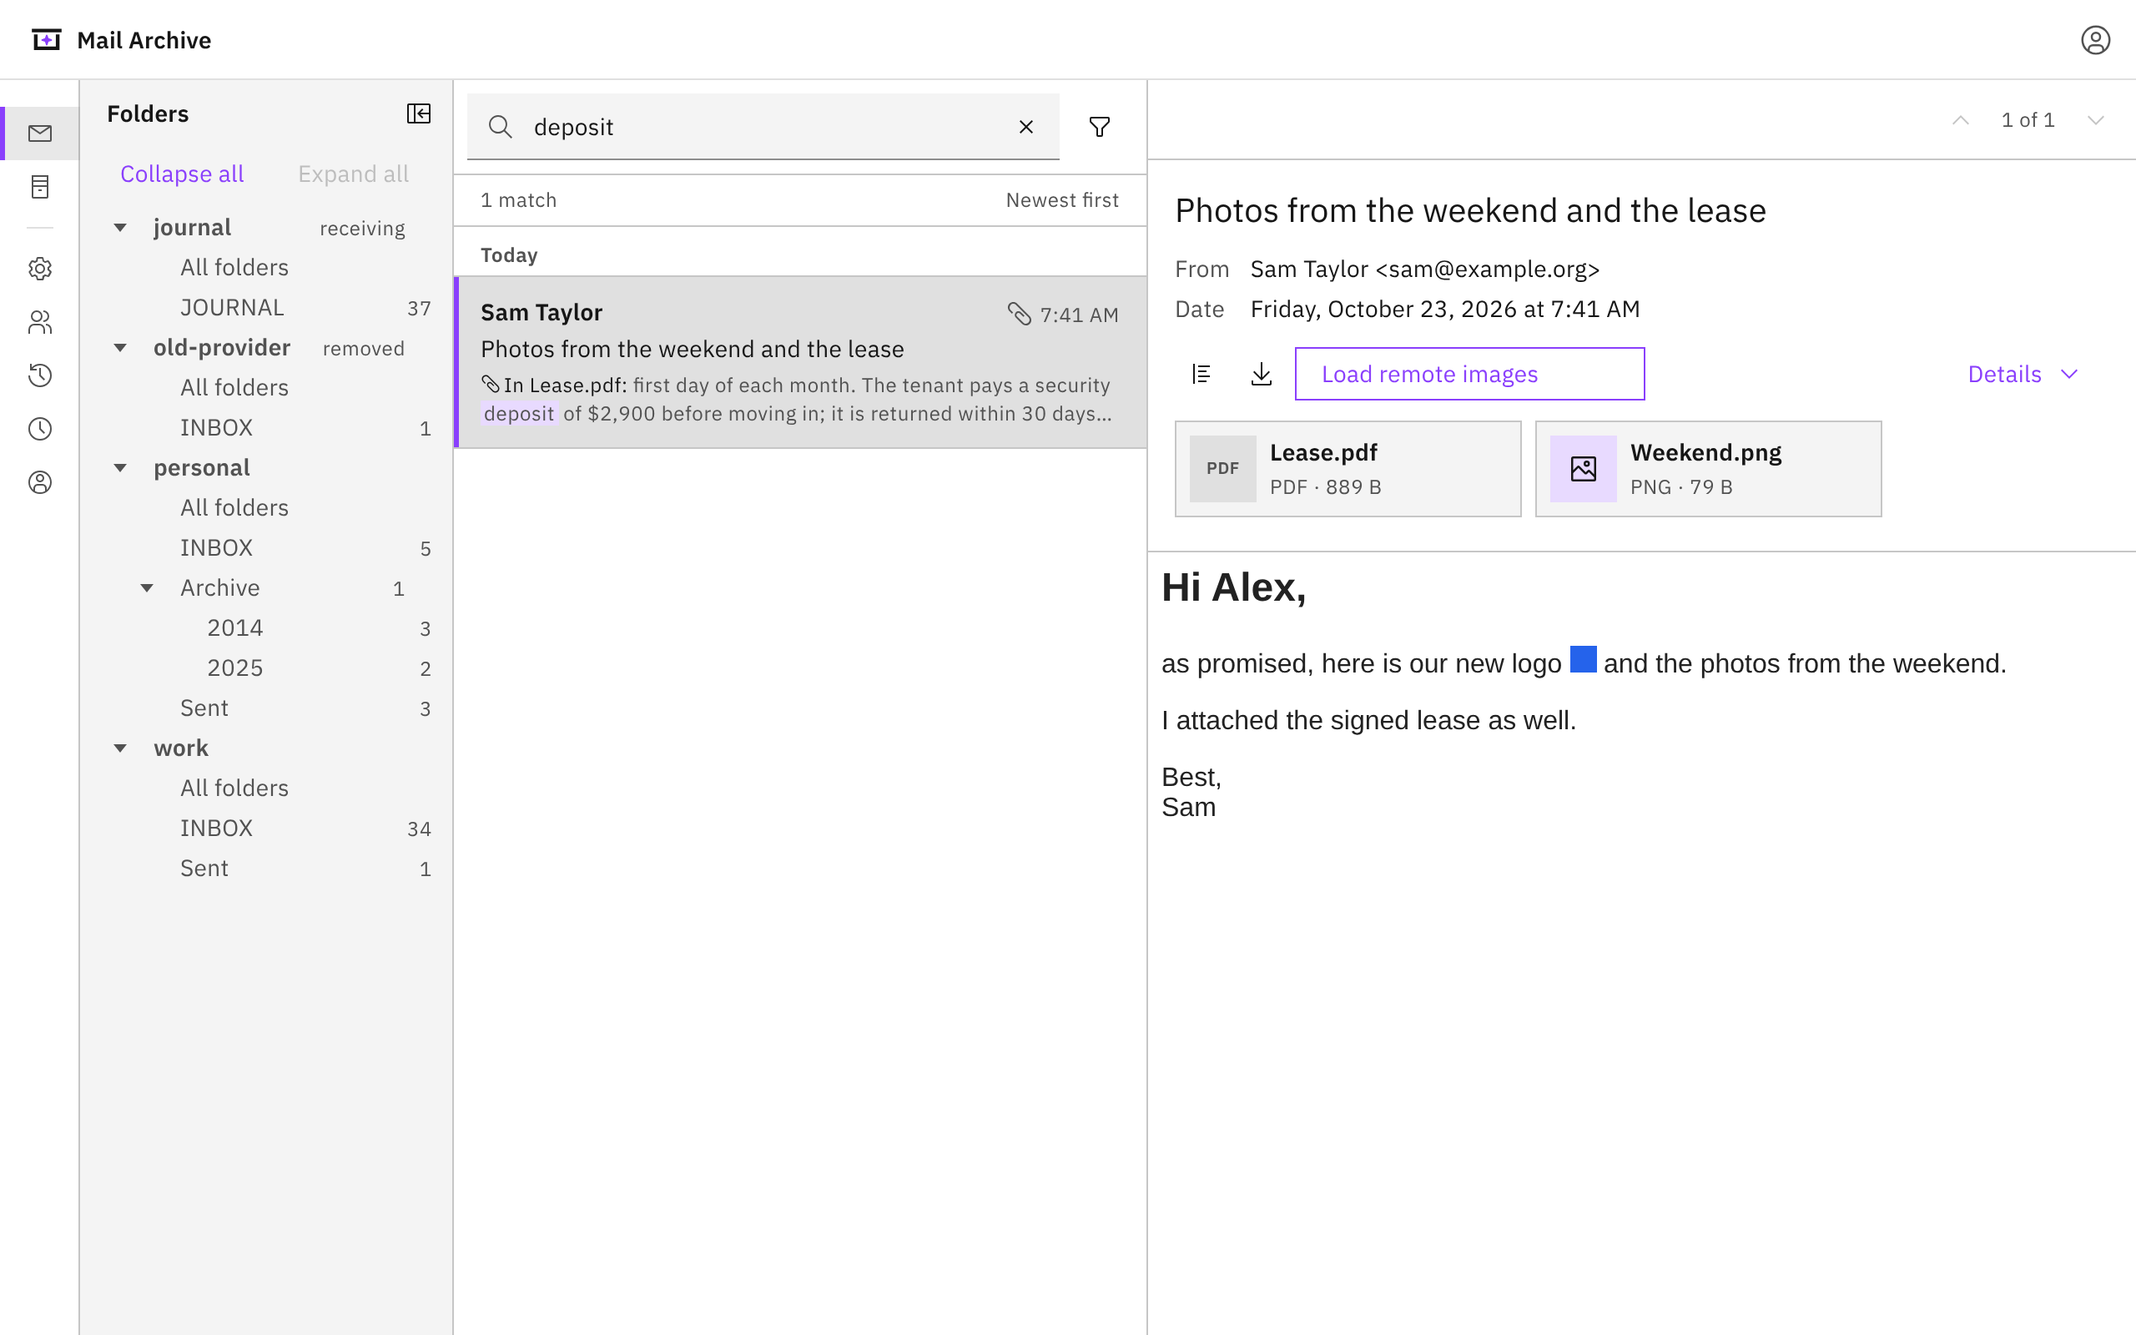
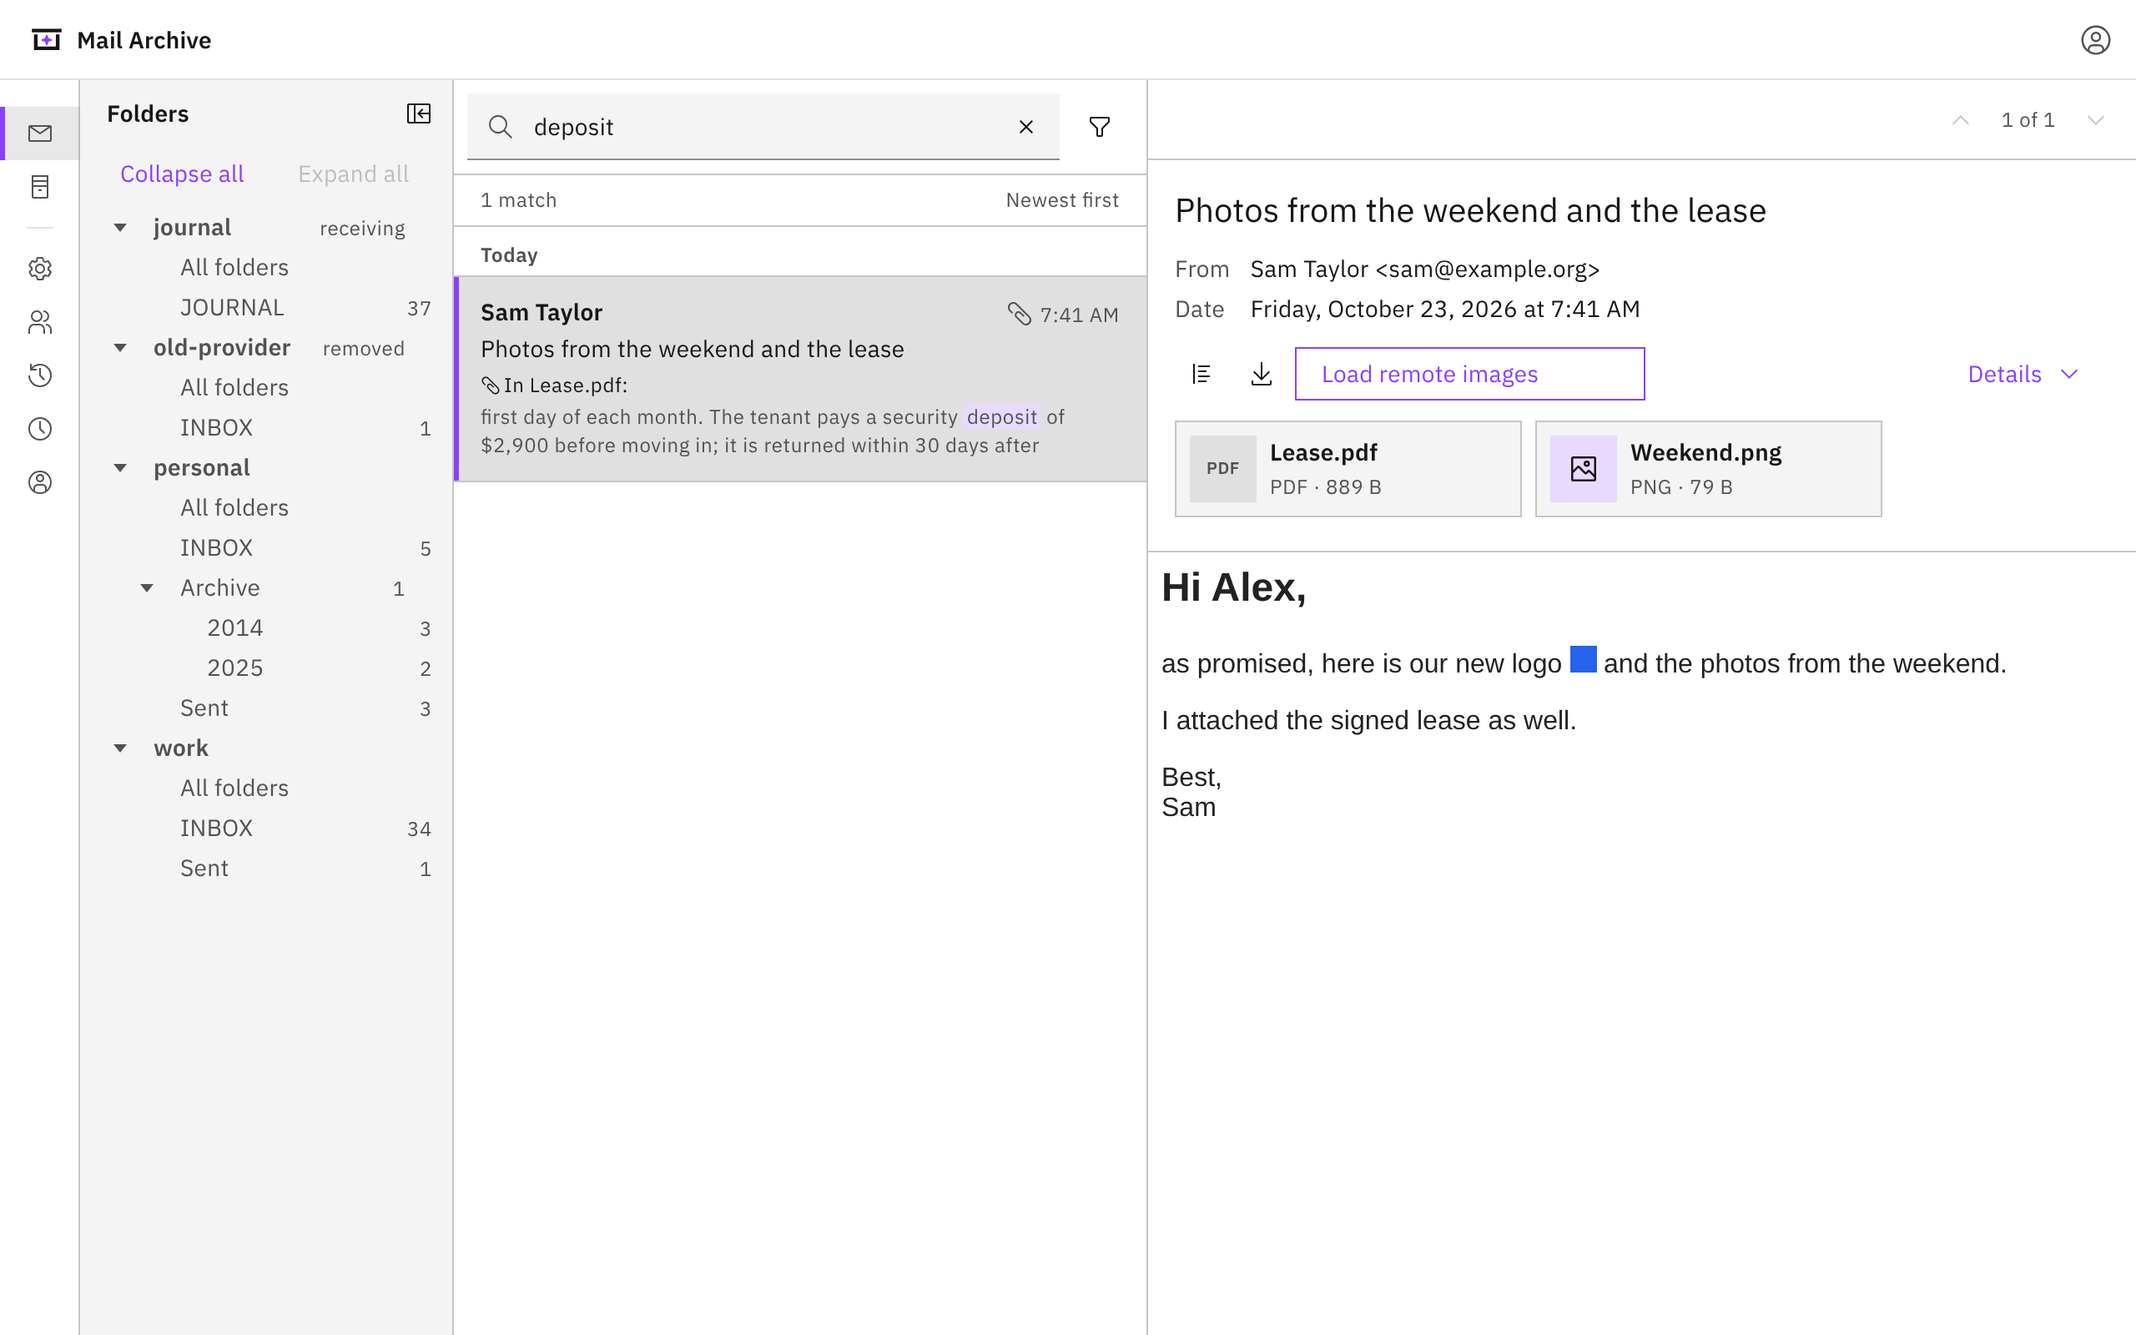
Search results: a long attachment name no longer hides the snippet (#482)
The "In <file>:" line of an attachment match is now a sibling above the
snippet instead of part of its two clamped lines. It takes one line: the
stem is cut with an ellipsis before the extension. Screen readers get the
name in one piece from a visually hidden text; the cut line is hidden
from them, because Chromium reads the flex items as "annexes .pdf :".

Claude-Session: https://claude.ai/code/session_016UE6pPWbSnN1w5ogjWfwrD

Changed region(s): [[0.1875, 0.2812, 0.5312, 0.375]]

diff --git a/web/src/MessageList.test.tsx b/web/src/MessageList.test.tsx
@@ -6,7 +6,7 @@ import { act, cleanup, render, screen } from "@testing-library/react";
 import { afterEach, beforeEach, expect, it, vi } from "vitest";
 import type { MessagePage, MessageSummary } from "./api";
 import { applySettings, t } from "./i18n";
-import { MessageList } from "./MessageList";
+import { MessageList, splitExtension } from "./MessageList";
 import { expectLoaded, expectLoading } from "./test/loading";
 
 const msg = (id: string): MessageSummary => ({
@@ -153,8 +153,10 @@ it("tags the rows of an expanded conversation that are only in the archive", asy
 
 /** The snippet line of a subject's row. */
 const snippetOf = (subject: string) => screen.getByText(subject).closest("button")!.querySelector(".mail-row__snippet");
+/** The "In <attachment>:" line of a subject's row. */
+const matchOf = (subject: string) => screen.getByText(subject).closest("button")!.querySelector(".mail-row__match");
 
-it("names the attachment a search matched by before its snippet, in English and German (#390, part 4)", async () => {
+it("names the attachment a search matched by on its own line above its snippet, in English and German (#390, part 4; #479)", async () => {
   const rows: MessageSummary[] = [
     { ...msg("a"), hasAttachment: true, snippet: "\uE000Rechnungsbetrag\uE001 1.234,56 €", matchedAttachment: { part: 3, filename: "Rechnung-2026-10.pdf" } },
     { ...msg("b"), hasAttachment: true, snippet: "Siehe \uE000Rechnungsbetrag\uE001 im Text" },
@@ -169,19 +171,48 @@ it("names the attachment a search matched by before its snippet, in English and 
       render(<MessageList filter={{ q: "Rechnungsbetrag" }} selected="" open={() => {}} />);
       await answer({ messages: rows, nextCursor: null });
       expect(await screen.findByText("Subject a")).toBeTruthy();
+      // The name is a sibling before the snippet, not inside its two clamped lines (#479).
+      const match = matchOf("Subject a")!;
+      // Screen readers get the text in one piece; the cut line is hidden from them.
+      expect(match.querySelector(".cds--visually-hidden")?.textContent).toBe("In Rechnung-2026-10.pdf:");
+      const line = match.querySelector(".mail-row__match-line")!;
+      expect(line.getAttribute("aria-hidden")).toBe("true");
+      expect(line.textContent).toBe("In Rechnung-2026-10.pdf:");
+      expect(match.querySelector(".mail-row__match-name")?.textContent).toBe("Rechnung-2026-10");
+      expect(match.querySelector(".mail-row__match-ext")?.textContent).toBe(".pdf");
       const a = snippetOf("Subject a")!;
-      expect(a.textContent).toBe("In Rechnung-2026-10.pdf: Rechnungsbetrag 1.234,56 €");
+      expect(a.textContent).toBe("Rechnungsbetrag 1.234,56 €");
+      expect(a.querySelector(".mail-row__match")).toBeNull();
       expect(a.querySelector("mark")?.textContent).toBe("Rechnungsbetrag");
-      // The paperclip is decoration; the text names the file.
-      expect(a.querySelector(".mail-row__match svg")?.getAttribute("aria-hidden")).toBe("true");
+      // The row's name reads the full file name and keeps it apart from the snippet.
+      expect(screen.getByRole("button", { name: /In Rechnung-2026-10\.pdf: Rechnungsbetrag/ })).toBeTruthy();
+      // The paperclip is decoration, in the hidden line; the text names the file.
+      expect(line.querySelector("svg")).toBeTruthy();
       // A body match: the snippet alone.
       expect(snippetOf("Subject b")!.textContent).toBe("Siehe Rechnungsbetrag im Text");
-      expect(snippetOf("Subject b")!.querySelector(".mail-row__match")).toBeNull();
-      // Without a file name: the part, in the user's language.
-      expect(snippetOf("Subject c")!.textContent).toBe(`${unnamed} Rechnungsbetrag`);
+      expect(matchOf("Subject b")).toBeNull();
+      // Without a file name: the part, in the user's language, and no extension.
+      expect(matchOf("Subject c")!.querySelector(".cds--visually-hidden")?.textContent).toBe(unnamed);
+      expect(matchOf("Subject c")!.querySelector(".mail-row__match-line")?.textContent).toBe(unnamed);
+      expect(matchOf("Subject c")!.querySelector(".mail-row__match-ext")).toBeNull();
+      expect(snippetOf("Subject c")!.textContent).toBe("Rechnungsbetrag");
     } finally {
       cleanup();
       applySettings({ language: "en", locale: "en" });
     }
   }
+});
+
+it.each([
+  ["Rechnung-2026-10.pdf", "Rechnung-2026-10", ".pdf"],
+  ["a.tar.gz", "a.tar", ".gz"],
+  [".bashrc", ".bashrc", ""],
+  ["name.", "name.", ""],
+  ["README", "README", ""],
+  ["Report v1.2 final", "Report v1.2 final", ""],
+  ["photo.JPEG", "photo", ".JPEG"],
+  ["archive.toolongextension", "archive.toolongextension", ""],
+  ["Teil 4", "Teil 4", ""],
+])("splitExtension(%j) is [%j, %j] (#479)", (name, stem, ext) => {
+  expect(splitExtension(name)).toEqual([stem, ext]);
 });

diff --git a/web/e2e/phone.spec.ts b/web/e2e/phone.spec.ts
@@ -1,5 +1,6 @@
 import { devices, type Page } from "@playwright/test";
 import { expect, test } from "./fixtures";
+import { sideScroll, sideScrolls } from "./layout";
 import { mailReady, openLong } from "./mailFrame";
 
 // A phone with a touch screen: one column at a time; the side navigation
@@ -241,4 +242,70 @@ test("phone: a swipe on the Folders scrim does not scroll the message behind it;
   // The same swipe without the scrim scrolls the page: the check above is not vacuous.
   await swipeUp(page, x, y);
   expect(await scrollY(page)).toBeGreaterThan(before);
+});
+
+test("phone: a long attachment name takes one line and keeps the matched term visible (#479)", async ({ page }) => {
+  // The iPhone width of the finding.
+  await page.setViewportSize({ width: 393, height: 852 });
+  // The demo's answer, with a long name for the matching attachment (Lease.pdf).
+  const long = "Residential Lease Agreement for Unit 4B signed by both parties final version 2026 including all annexes.pdf";
+  let replaced = 0;
+  await page.route(
+    (url) => url.pathname === "/api/messages" && url.searchParams.get("q") === "deposit",
+    async (route) => {
+      const response = await route.fetch();
+      const body = (await response.json()) as { messages: { matchedAttachment?: { filename: string } }[] };
+      for (const m of body.messages)
+        if (m.matchedAttachment) {
+          m.matchedAttachment.filename = long;
+          replaced++;
+        }
+      await route.fulfill({ response, json: body });
+    },
+  );
+  await page.goto("/?q=deposit");
+  const list = page.getByRole("list", { name: "Messages" });
+  const hit = list.getByRole("button", { name: /Photos from the weekend and the lease/ });
+  const match = hit.locator(".mail-row__match-line");
+  const name = match.locator(".mail-row__match-name");
+  const ext = match.locator(".mail-row__match-ext");
+  const snippet = hit.locator(".mail-row__snippet");
+  const mark = snippet.locator("mark");
+  await expect(match).toHaveText(`In ${long}:`);
+  expect(replaced).toBe(1);
+  await expect(ext).toHaveText(".pdf");
+  await expect(mark).toHaveText(["deposit"]);
+
+  // One line: the box is as high as one line of its text.
+  await expect
+    .poll(() => match.evaluate((e) => Math.abs(e.getBoundingClientRect().height - parseFloat(getComputedStyle(e).lineHeight))))
+    .toBeLessThanOrEqual(1);
+  // The stem is cut with "…"; the extension stays inside the line.
+  await expect.poll(() => name.evaluate((e) => e.scrollWidth > e.clientWidth)).toBe(true);
+  const box = async (l: typeof match) => (await l.boundingBox())!;
+  const [m, x] = [await box(match), await box(ext)];
+  expect(x.x).toBeGreaterThanOrEqual(m.x);
+  expect(x.x + x.width).toBeLessThanOrEqual(m.x + m.width + 0.5);
+  expect(x.y).toBeGreaterThanOrEqual(m.y - 0.5);
+  expect(x.y + x.height).toBeLessThanOrEqual(m.y + m.height + 0.5);
+
+  // The marked term is inside the snippet's two clamped lines, not cut off below.
+  await expect(mark).toBeInViewport();
+  const [s, k] = [await box(snippet), await box(mark)];
+  expect(k.y).toBeGreaterThanOrEqual(s.y - 0.5);
+  expect(k.y + k.height).toBeLessThanOrEqual(s.y + s.height + 0.5);
+  expect(k.x + k.width).toBeLessThanOrEqual(s.x + s.width + 0.5);
+
+  // Nothing scrolls sideways.
+  expect(await sideScrolls(page)).toBe(false);
+  const scroll = await sideScroll(list);
+  expect(scroll.scrollWidth).toBeLessThanOrEqual(scroll.clientWidth);
+
+  // Chromium's own accessible name of the row reads the full name unbroken
+  // (the stem and the extension are flex items) and apart from the snippet.
+  const cdp = await page.context().newCDPSession(page);
+  const { nodes } = (await cdp.send("Accessibility.getFullAXTree")) as { nodes: { role?: { value: string }; name?: { value: string } }[] };
+  const rowName = nodes.find((n) => n.role?.value === "button" && n.name?.value.includes("Photos from the weekend"))?.name?.value ?? "";
+  expect(rowName).toContain(`In ${long}: `);
+  await cdp.detach();
 });

diff --git a/web/src/MessageList.tsx b/web/src/MessageList.tsx
@@ -205,6 +205,40 @@ interface RowProps {
   count?: number;
 }
 
+/**
+ * A file name's stem and extension: the extension is the last "." with 1 to 10
+ * letters or digits after it and a non-empty stem before it, else "" (#479).
+ */
+export function splitExtension(name: string): [string, string] {
+  const i = name.lastIndexOf(".");
+  const ext = name.slice(i);
+  return i > 0 && /^\.[A-Za-z0-9]{1,10}$/.test(ext) ? [name.slice(0, i), ext] : [name, ""];
+}
+
+/**
+ * "In <name>:" on one line: the stem is cut with "…" where the line ends,
+ * the extension and the colon stay (#479). The stem and the extension are
+ * flex items, which Chromium reads with spaces between them ("annexes .pdf
+ * :"), so screen readers get the text in one piece and the line is hidden
+ * from them.
+ */
+function MatchedAttachment({ name }: { name: string }) {
+  const [stem, ext] = splitExtension(name);
+  const [before, after] = t.inAttachment;
+  return (
+    <span className="mail-row__match">
+      <span className="cds--visually-hidden">{`${before}${name}${after}`}</span>
+      <span className="mail-row__match-line" aria-hidden="true">
+        <Attachment size={12} />
+        {before}
+        <span className="mail-row__match-name">{stem}</span>
+        {ext && <span className="mail-row__match-ext">{ext}</span>}
+        {after}
+      </span>
+    </span>
+  );
+}
+
 function Row({ m, selected, open, nested, count }: RowProps) {
   const on = m.id === selected;
   // Paging in the reading pane moves the selection; keep it in view.
@@ -236,15 +270,16 @@ function Row({ m, selected, open, nested, count }: RowProps) {
         </span>
       </span>
       <span className="mail-row__subject">{m.subject || t.noSubject}</span>
+      {/* Only an attachment matched the search: its name on a line of its own above the
+          snippet from its text, so a long name cannot use up the snippet's two lines (#479).
+          The space keeps the name and the snippet apart in the row's accessible name. */}
+      {m.snippet && !nested && m.matchedAttachment && (
+        <>
+          <MatchedAttachment name={m.matchedAttachment.filename || t.part(m.matchedAttachment.part)} />{" "}
+        </>
+      )}
       {m.snippet && !nested && (
         <span className="mail-row__snippet">
-          {/* Only an attachment matched the search: its name before the snippet from its text. */}
-          {m.matchedAttachment && (
-            <span className="mail-row__match">
-              <Attachment size={12} aria-hidden />
-              {t.inAttachment(m.matchedAttachment.filename || t.part(m.matchedAttachment.part))}{" "}
-            </span>
-          )}
           <Highlight text={m.snippet} />
         </span>
       )}

diff --git a/web/src/i18n.ts b/web/src/i18n.ts
@@ -20,7 +20,8 @@ const en = {
   earlierNotShown: (n: number) => (n === 1 ? "1 earlier message not shown" : `${n} earlier messages not shown`),
   loadConversationFailed: (err: string) => `Could not load the conversation: ${err}`,
   inConversation: (n: number) => `${n} messages in this conversation`,
-  inAttachment: (name: string) => `In ${name}:`,
+  /** Before and after an attachment's name: "In Lease.pdf:" (#479: the name is its own element). */
+  inAttachment: ["In ", ":"] as [string, string],
   showConversation: (n: number) => (n === 1 ? "Show 1 earlier message" : `Show ${n} earlier messages`),
   conversationCount: (n: number) => `Conversation (${n})`,
   hideConversation: "Hide the messages",
@@ -763,7 +764,7 @@ const de: Messages = {
   earlierNotShown: (n) => (n === 1 ? "1 ältere Nachricht nicht angezeigt" : `${n} ältere Nachrichten nicht angezeigt`),
   loadConversationFailed: (err) => `Konversation konnte nicht geladen werden: ${err}`,
   inConversation: (n) => `${n} Nachrichten in dieser Konversation`,
-  inAttachment: (name) => `In ${name}:`,
+  inAttachment: ["In ", ":"],
   showConversation: (n) => (n === 1 ? "1 ältere Nachricht anzeigen" : `${n} ältere Nachrichten anzeigen`),
   conversationCount: (n) => `Konversation (${n})`,
   hideConversation: "Nachrichten ausblenden",

diff --git a/web/e2e/mail.spec.ts b/web/e2e/mail.spec.ts
@@ -66,11 +66,13 @@ test("a word only in a PDF finds the message, and the row names the attachment (
   // "deposit" is only in the text of Lease.pdf, not in the message itself.
   await page.getByRole("searchbox", { name: "Search mail" }).fill("deposit");
   await expect(page).toHaveURL(/[?&]q=deposit/);
-  // The file name, then the snippet from the PDF with the match marked:
-  // only a search result has it, the full list shows the start of the body.
+  // The file name on its own line (#479), then the snippet from the PDF with
+  // the match marked: only a search result has it, the full list shows the
+  // start of the body.
   const hit = list.getByRole("button", { name: /Photos from the weekend and the lease/ });
+  await expect(hit.locator(".mail-row__match-line")).toHaveText("In Lease.pdf:");
   const snippet = hit.locator(".mail-row__snippet");
-  await expect(snippet).toContainText(/^In Lease\.pdf: [\s\S]*security deposit/);
+  await expect(snippet).toContainText(/security deposit/);
   await expect(snippet.locator("mark")).toHaveText(["deposit"]);
   // Only the one message has the word.
   await expect(list.getByRole("button")).toHaveCount(1);

diff --git a/web/src/layout.css b/web/src/layout.css
@@ -780,14 +780,35 @@ select,
   -webkit-box-orient: vertical;
   -webkit-line-clamp: 2;
 }
-/* The attachment a search matched by, before the snippet from its text. */
+/* The attachment a search matched by, on one line above the snippet from its
+   text (#479): a long name is cut with "…" before its extension, so the
+   snippet keeps its two lines. `pre` keeps the space after "In". */
 .mail-row__match {
+  min-inline-size: 0;
   color: var(--cds-text-primary);
+  font-size: 0.75rem;
+  letter-spacing: 0.32px;
+}
+.mail-row__match-line {
+  display: flex;
+  align-items: center;
+  min-inline-size: 0;
+  white-space: pre;
 }
 .mail-row__match svg {
+  flex: none;
   margin-inline-end: 0.125rem;
   fill: currentColor;
-  vertical-align: -0.0625rem;
+}
+.mail-row__match-name {
+  overflow: hidden;
+  min-inline-size: 0;
+  text-overflow: ellipsis;
+  white-space: nowrap;
+}
+.mail-row__match-ext {
+  flex: none;
+  white-space: nowrap;
 }
 .mail-row__tags {
   display: flex;

diff --git a/docs/guide/web-ui.md b/docs/guide/web-ui.md
@@ -230,10 +230,12 @@ Search covers subject, sender and body text, and the text of attachments:
 PDFs, plain text, CSV, TSV, Markdown and HTML. Words are matched in German
 and English forms: `invoices` finds `invoice`, `Rechnungen` finds
 `Rechnung`. Matches are highlighted in the result snippets. When only an
-attachment matches, the snippet comes from its text and starts with its
-name ("In Lease.pdf: … security deposit …"); with several matching
-attachments, the first is named. Screen readers hear the number of results
-when a search or a further page finishes loading.
+attachment matches, its name is on a line of its own ("In Lease.pdf:") and
+the snippet below it comes from its text ("… security deposit …"); a long
+name is shortened to that one line and keeps its extension ("In Residential
+Lease Agreement….pdf:"), so the snippet keeps its two lines. With several
+matching attachments, the first is named. Screen readers hear the number of
+results when a search or a further page finishes loading.
 
 ![A search for a word that is only in an attached PDF](/screenshots/search-attachment.png)
 
